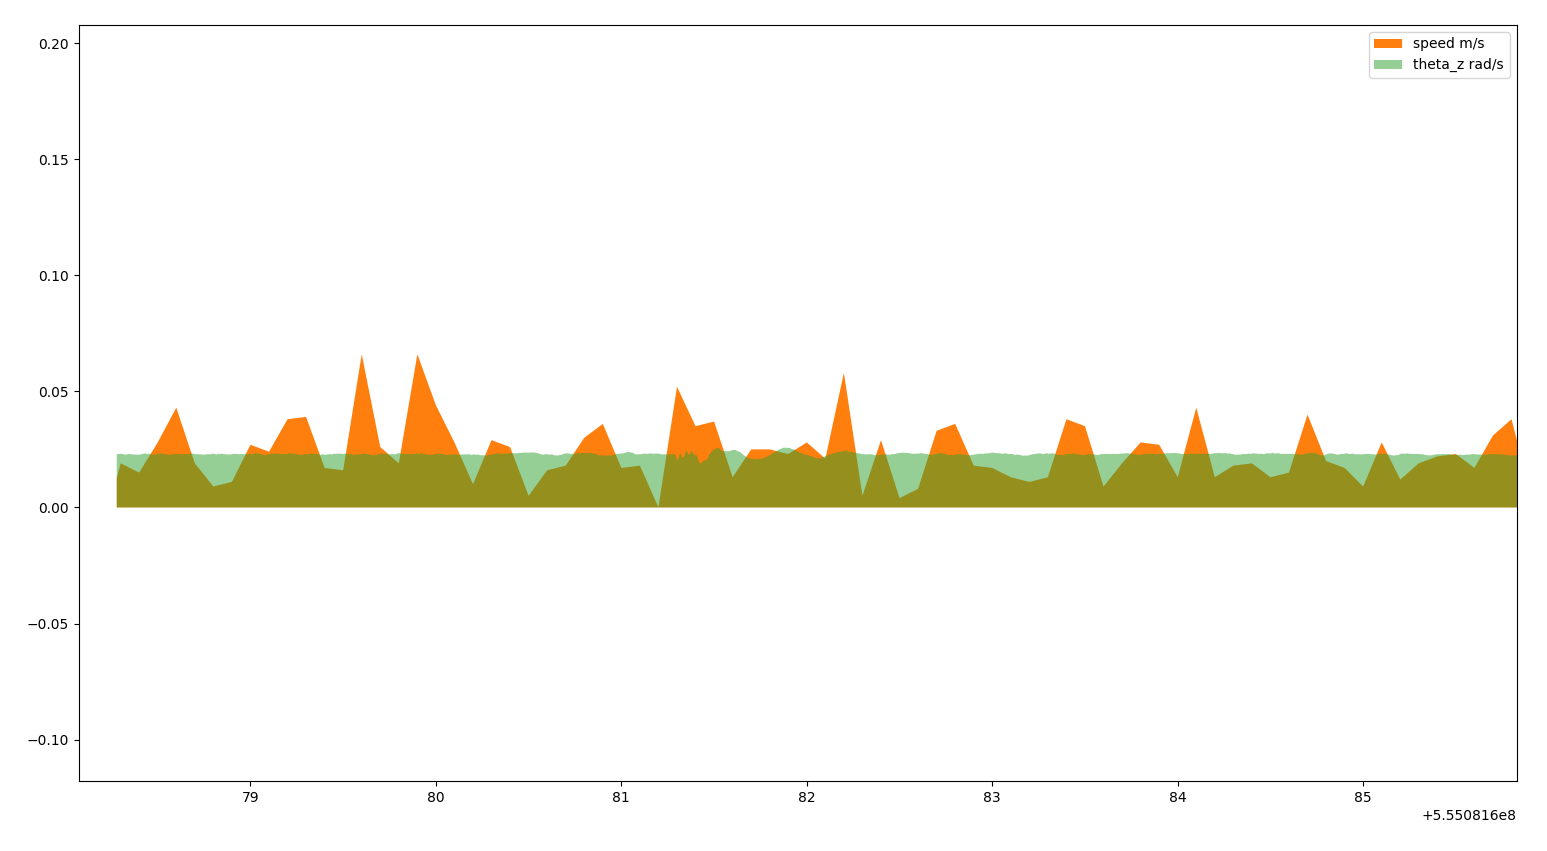
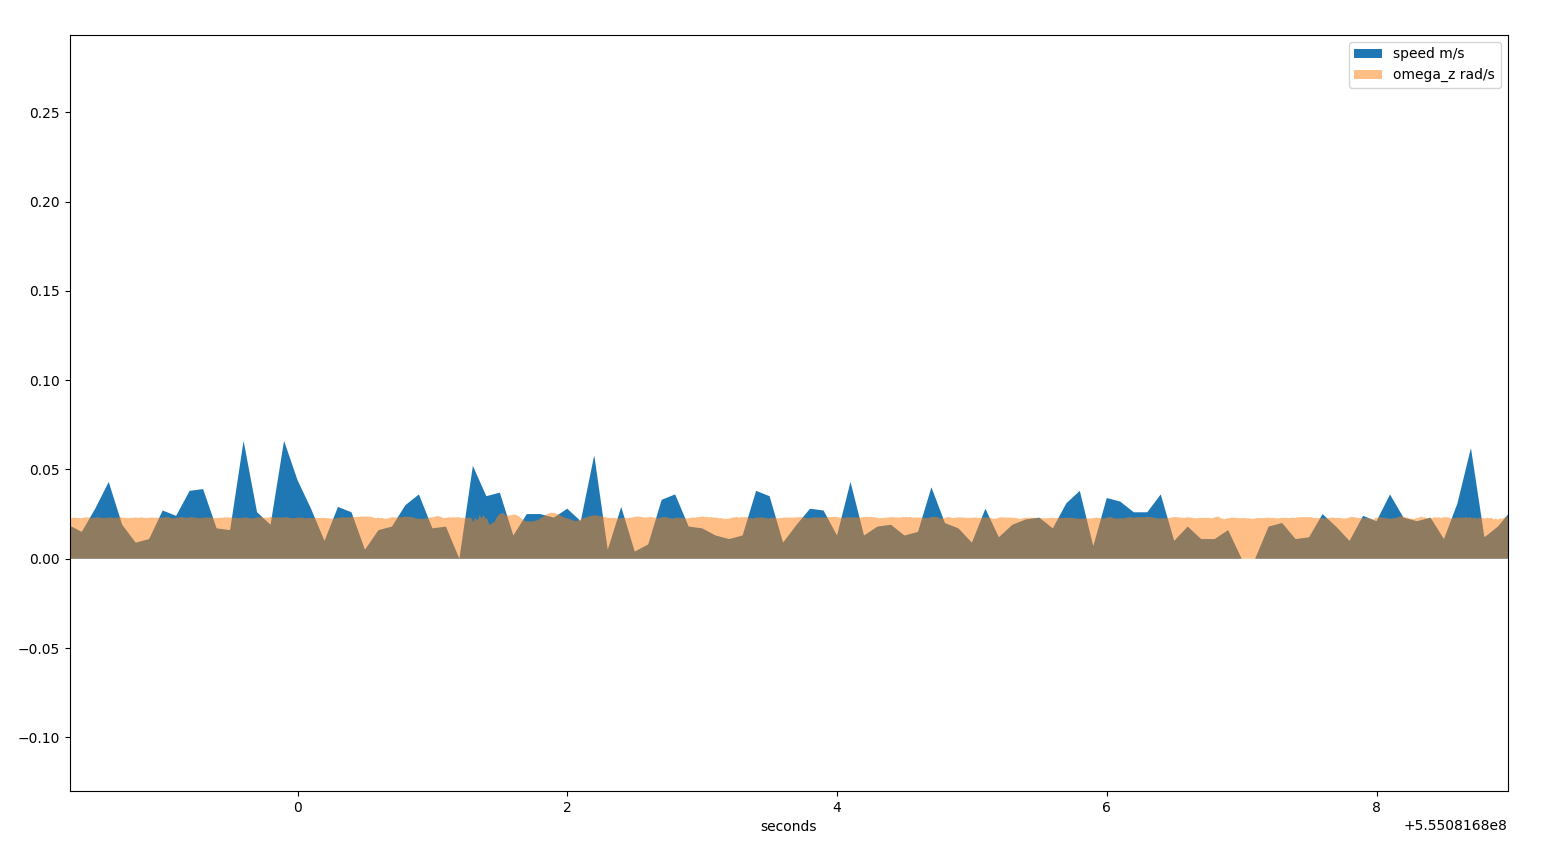
omega hotfix

diff --git a/chapters/chapter08-blender_add-on/chap08.tex b/chapters/chapter08-blender_add-on/chap08.tex
@@ -1,3 +1,13 @@
 %\let\textcircled=\pgftextcircled
 \chapter{Blender add-on}
 \label{chap:blender_add_on}
+
+Blender has a python application programming interface (API). Through the API, one can create a python module as a Blender addon-on. Add-ons is extension of Blender basic functionality, managed by a section of Blender settings and installable by file.
+An alternative to add-on to interact programmatically with Blender is to create a python script and load it into the built-in text editor and execute it or by giving it as parameter launching Blender from the command line.
+Add-ons provide versioning and authoring, remain activated through changing between Blender files and doesn't need to be loaded each time.
+
+\section{Blender addon-on anatomy}
+Ad addon-on can be a single python file or a zip containing an \texttt{\_\_init\_\_.py} file and others. \\
+In both cases the main python file must have a  \texttt{register()} and \texttt{unregister()} function implemented.
+
+\section{Installation of dependencies}

diff --git a/chapters/chapter05-input_data_cleaning/chap05.tex b/chapters/chapter05-input_data_cleaning/chap05.tex
@@ -44,6 +44,6 @@ Once obtained rotation angle, the program rotate both local acceleration and ang
 \begin{figure}[H]
 \includegraphics[width=\textwidth]{kia_bad_xy_align.jpg}
 \end{figure}
-Car's box horizontal unaligmnet is corrected by looking for situation where $a_x>0, \ a_y>0, \theta_z =0$. If this state exists, then or the car is sliding on ice or there is an unaligment on the $xy$ plane. Where, for example, an acceleration forward will be measured with both positive accelerations along x and y axis. 
+Car's box horizontal unaligmnet is corrected by looking for situation where $a_x>0, \ a_y>0, \omega_z =0$. If this state exists, then or the car is sliding on ice or there is an unaligment on the $xy$ plane. Where, for example, an acceleration forward will be measured with both positive accelerations along x and y axis. 
 Still in the situation described, the misaligment can be measured and corrected, still by rotating both local accelerations and angular velocities.
 

diff --git a/chapters/chapter04_language_and_libraries_choices/chap04.tex b/chapters/chapter04_language_and_libraries_choices/chap04.tex
@@ -3,7 +3,7 @@
 \label{chap:programming_language_libraries_choices}
 
 \section{Python}
-For this analysis the Python programming language \cite{python-website} has been choosen. \\
+For this project the Python programming language \cite{python-website} has been choosen. \\
 Python is increasingly being used by the scientific community for its large collections of packages. It allows to link normal python code to C / C++ extension when performance optimization is critically important. \\
 The used python implementation is the standard CPython. \\
 In addition, Blender only offer a Python API.
